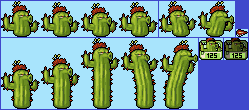
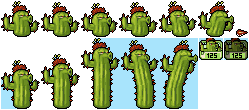
varios

diff --git a/lib/components/plants/cactus_component.dart b/lib/components/plants/cactus_component.dart
@@ -9,17 +9,19 @@ import 'package:plantsvszombie/components/plants/plant_component.dart';
 class CactusComponent extends PlantComponent {
   @override
   Future<void>? onLoad() async {
-    spriteSheetWidth = 39.3;
+    spriteSheetWidth = 39;
     spriteSheetHeight = 37;
     final spriteImage = await Flame.images.load('PlantCactus.png');
 
-    final spriteSheetIdle = SpriteSheet(
+    final spriteSheet = SpriteSheet(
         image: spriteImage,
         srcSize: Vector2(spriteSheetWidth, spriteSheetHeight));
 
     // init animation
-    idleAnimation = spriteSheetIdle.createAnimationByLimit(
-        xInit: 0, yInit: 0, step: 6, sizeX: 6, stepTime: .2);
+    idleAnimation = spriteSheet.createAnimationByLimit(
+        xInit: 0, yInit: 0, step: 4, sizeX: 6, stepTime: .2);
+    shootAnimation = spriteSheet.createAnimationByLimit(
+        xInit: 0, yInit: 4, step: 2, sizeX: 6, stepTime: .2);
 
     animation = idleAnimation;
     size = Vector2(spriteSheetWidth, spriteSheetHeight);

diff --git a/lib/components/plants/peashooter_component.dart b/lib/components/plants/peashooter_component.dart
@@ -16,15 +16,20 @@ class PeashooterComponent extends PlantComponent {
     final spriteSheetIdle = SpriteSheet(
         image: spriteImage,
         srcSize: Vector2(spriteSheetWidth, spriteSheetHeight));
+    final spriteSheetShoot = SpriteSheet(
+        image: spriteImage,
+        srcSize: Vector2(spriteSheetWidth - 2, spriteSheetHeight));
 
     // init animation
     idleAnimation = spriteSheetIdle.createAnimationByLimit(
         xInit: 0, yInit: 0, step: 8, sizeX: 8, stepTime: .2);
+    shootAnimation = spriteSheetShoot.createAnimationByLimit(
+        xInit: 1, yInit: 0, step: 3, sizeX: 8, stepTime: .2);
 
-    animation = idleAnimation;
+    animation = shootAnimation;
     size = Vector2(spriteSheetWidth, spriteSheetHeight);
 
-    position = Vector2.all(300);
+    // position = Vector2.all(300);
 
     body = RectangleHitbox(
       size: Vector2(spriteSheetWidth, spriteSheetHeight - 40),

diff --git a/lib/main.dart b/lib/main.dart
@@ -7,7 +7,7 @@ import 'package:plantsvszombie/components/plants/cactus_component.dart';
 import 'package:plantsvszombie/components/plants/peashooter_component.dart';
 
 class MyGame extends FlameGame
-    with HasKeyboardHandlerComponents, HasCollisionDetection {
+    with HasKeyboardHandlerComponents, HasCollisionDetection, TapDetector {
   @override
   Future<void>? onLoad() {
     add(PeashooterComponent());
@@ -38,6 +38,14 @@ class MyGame extends FlameGame
   Color backgroundColor() {
     super.backgroundColor();
     return Colors.purple;
+  }
+
+  @override
+  bool onTapDown(TapDownInfo info) {
+    add(PeashooterComponent()
+      ..position =
+          Vector2(info.raw.localPosition.dx, info.raw.localPosition.dy));
+    return true;
   }
 }
 
